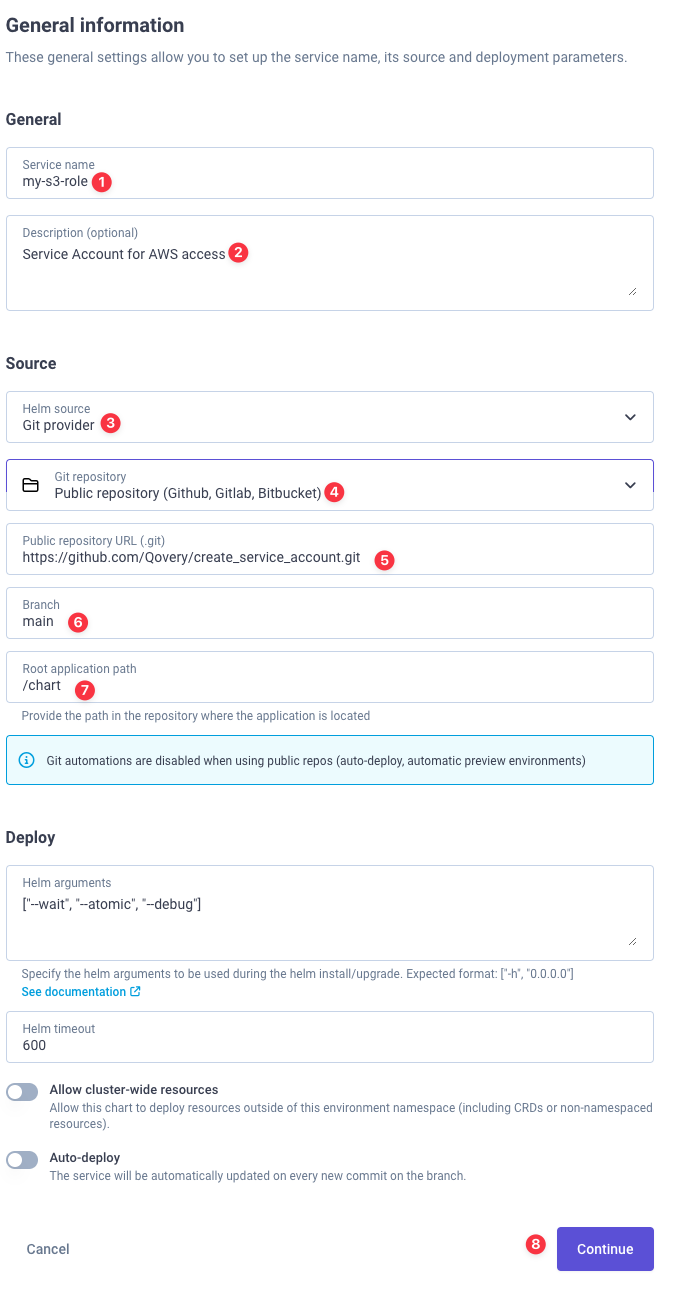
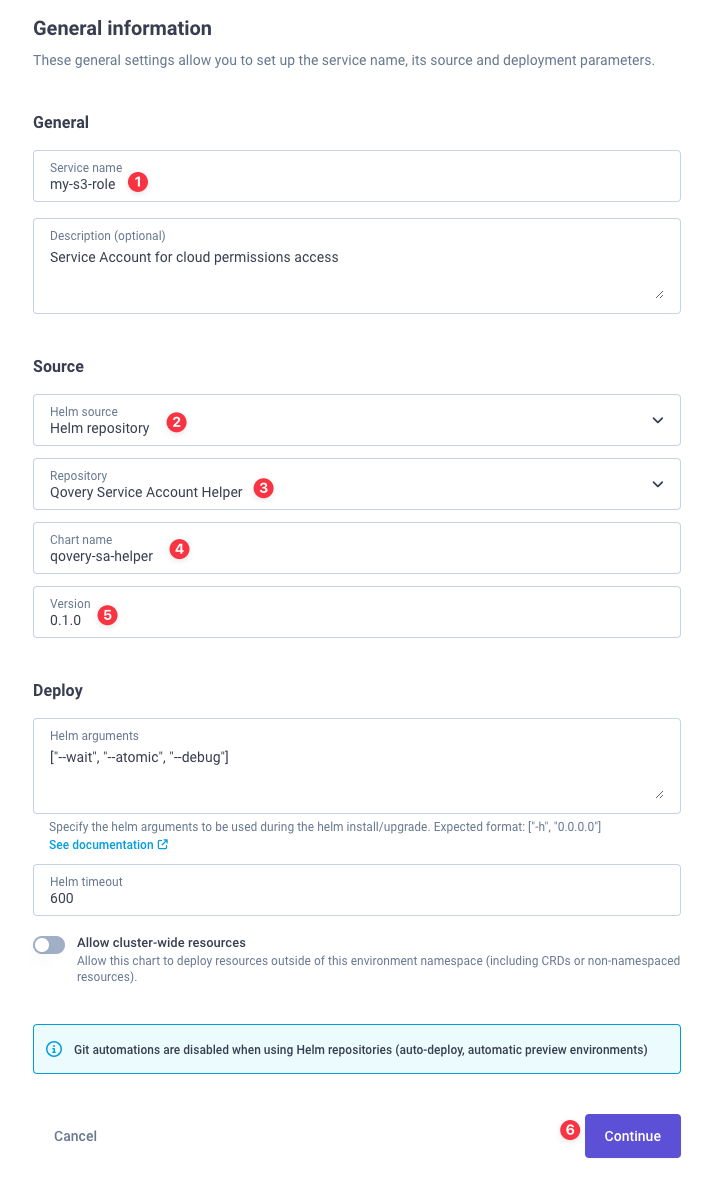
refactor: update the iam role tuto

diff --git a/website/metadata.js b/website/metadata.js
@@ -668,15 +668,6 @@ module.exports = {
           "title": "URL Shortener API with Kotlin (Part 1/2)"
         },
         {
-          "author_github": "https://github.com/deimosfr",
-          "description": null,
-          "id": "/tutorial/use-aws-iam-roles-with-qovery",
-          "last_modified_on": null,
-          "path": "website/guides/tutorial/use-aws-iam-roles-with-qovery.md",
-          "series_position": null,
-          "title": "Use AWS IAM roles with Qovery"
-        },
-        {
           "author_github": "https://github.com/evoxmusic",
           "description": null,
           "id": "/tutorial/use-an-api-gateway-in-front-of-multiple-services",

diff --git a/website/guides/tutorial/use-aws-iam-roles-with-qovery.md b/website/guides/tutorial/use-aws-iam-roles-with-qovery.md
@@ -1,5 +1,5 @@
 ---
-last_modified_on: "2024-05-01"
+last_modified_on: "2024-05-02"
 $schema: "/.meta/.schemas/guides.json"
 title: "Use AWS IAM roles with Qovery"
 description: "Give AWS IAM permissions to your application/container/job with Qovery"
@@ -194,7 +194,7 @@ Kubernetes reminder: **a deployed service account in a Kubernetes namespace, bec
 
 </Alert>
 
-This step will help you on deploying a service account on your Kubernetes cluster. In case you want to do it manually on the cluster with `kubectl`, you just have to push a service account like:
+This step will help you deploying a service account on your Kubernetes cluster. In case you want to do it manually on the cluster with `kubectl`, you just have to push a service account like:
 
 ```yaml
 apiVersion: v1
@@ -222,13 +222,22 @@ Then configure the Helm chart with the following values:
   <img src="/img/aws-iam-assume-role/helm_sa_1.png" alt="Helm chart" />
 </p>
 
-* Helm source: `Git provider`
-* Git repository: `Public repository`
-* Public repository URL: `https://github.com/Qovery/create_service_account.git`
-* Branch: `main`
-* Root application chart: `/chart`
+* Helm source: `Helm repository`
+* Git repository: `Qovery Service Account Helper`
+* Chart name: `qovery-sa-helper`
+* Version: `0.1.0`
 
-Then click on the `Continue` button.
+Create a new help repository on phase 3, and fill the chart info:
+
+<p Valign="center">
+  <img src="/img/aws-iam-assume-role/set-helm-repo.png" alt="Helm chart" />
+</p>
+
+* Repository name: `Qovery Service Account Helper`
+* Kind: HTTPS
+* Repository url: `https://qovery.github.io/create_service_account/`
+
+Then click on `Create`, and the `Continue` button.
 
 On the values override file, we do not need to override anything, so select `None`, and then click on the `Continue` button.
 
@@ -269,7 +278,7 @@ At this stage, the job should have been executed and the service account should 
 
 ### Validate access
 
-To validate the AWS role has correctly been deployed, we can connect to the pod, and see if we have the AWS token. We will use the Qovery CLI to connect to our pod:
+To validate AWS role has correctly been deployed, we can connect to the pod, and see if we have the AWS token. We will use the Qovery CLI to connect to our pod:
 
 ```bash
 $ qovery shell
